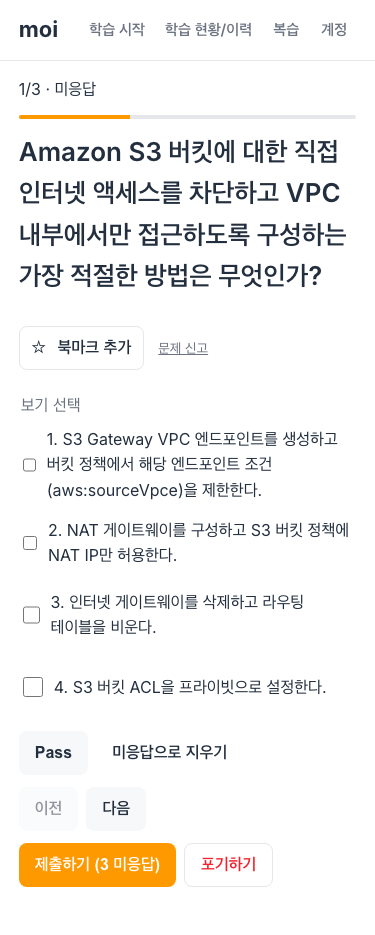
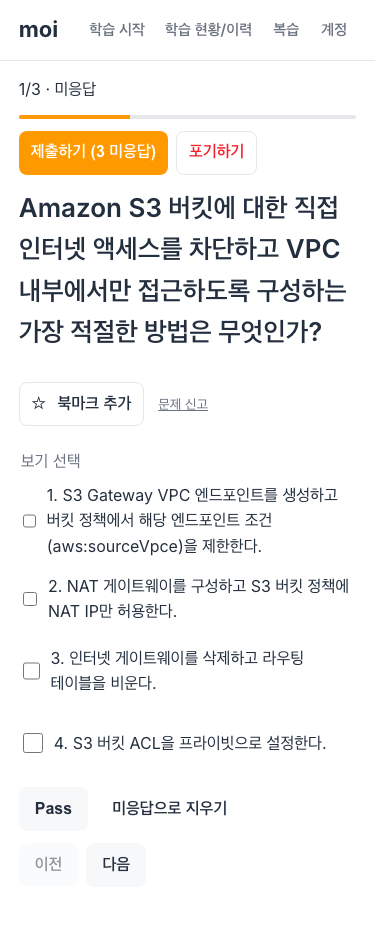
fix: Pass 즉시 다음 문제 이동·제출/포기 상단 배치 (#185, #186) (#191)
* fix: Pass 클릭 시 즉시 다음 문제로 이동 (#185)

- onPass에서 pass 응답 저장 후 다음 인덱스로 이동(마지막 문제는 머묾 — 자동 제출 없음)
- 다음 버튼 동작·저장 실패/오프라인/초안 동기화 동작은 기존 유지
- tests/ui/study-buttons.test.tsx에 이동·마지막 문제 유지 시나리오 추가

* fix: 풀이 화면 제출·포기 버튼을 상단으로 이동 (#186)

- 진행 표시(progress/progressbar) 직후에 제출(primary)·포기(outline destructive) 상단 액션 행 추가
- 하단 제출·포기 블록 제거, 제출 실패 알림은 상단 액션 바로 아래로 이동
- 상단 행은 size=sm(44px 터치)·flex-wrap·gap 8로 320px 한 줄 배치
- 보기 목록·Pass/Clear·저장 상태·이전/다음 순서 유지, 확인 대화상자 흐름 유지
- study-active 320~1280 캡처 갱신(가로 오버플로 0)

diff --git a/tests/ui/study-buttons.test.tsx b/tests/ui/study-buttons.test.tsx
@@ -103,8 +103,11 @@ function tokens(el: Element): string[] {
   return (el.getAttribute('class') ?? '').split(/\s+/).filter(Boolean);
 }
 
-// 같은 의미의 버튼은 높이·패딩·폰트가 같아야 한다 (DESIGN.md 5절).
-const SIZE_TOKENS = ['h-11', 'min-h-[44px]', 'px-4', 'text-sm'];
+// 같은 의미의 버튼은 높이·폰트가 같아야 한다 (DESIGN.md 5절).
+const SIZE_TOKENS = ['h-11', 'min-h-[44px]', 'text-sm'];
+// 풀이·탐색 버튼은 기본 패딩, 상단 제출·포기는 320px 한 줄 배치를 위한 컴팩트 패딩 (#186).
+const DEFAULT_PADDING = 'px-4';
+const TOP_ACTION_PADDING = 'px-3';
 
 beforeEach(() => {
   window.history.replaceState(null, '', '/');
@@ -144,10 +147,13 @@ describe('학습 화면 버튼 위계', () => {
     expect(tokens(abandon)).toContain('text-destructive');
     expect(tokens(abandon)).toContain('border');
 
-    // 같은 의미의 버튼은 동일 크기(터치 타깃 44px)·동일 패딩·폰트.
+    // 같은 의미의 버튼은 동일 크기(터치 타깃 44px)·동일 폰트.
     for (const el of [submit, pass, clear, prev, next, abandon]) {
       for (const t of SIZE_TOKENS) expect(tokens(el)).toContain(t);
     }
+    // 풀이·탐색 버튼은 기본 패딩, 상단 제출·포기는 컴팩트 패딩(320px 한 줄 배치, #186).
+    for (const el of [pass, clear, prev, next]) expect(tokens(el)).toContain(DEFAULT_PADDING);
+    for (const el of [submit, abandon]) expect(tokens(el)).toContain(TOP_ACTION_PADDING);
   });
 
   it('풀이 화면: 이전/다음 disabled 상태가 유지된다', async () => {
@@ -162,6 +168,66 @@ describe('학습 화면 버튼 위계', () => {
     fireEvent.click(screen.getByRole('button', { name: '다음' }));
     expect(screen.getByRole('button', { name: '다음' })).toBeDisabled();
     expect(screen.getByRole('button', { name: '이전' })).not.toBeDisabled();
+  });
+
+  it('Pass 클릭 시 즉시 다음 문제로 이동한다(#185)', async () => {
+    renderStudy(fakeStudyClient());
+    fireEvent.click(await screen.findByRole('button', { name: '학습 시작' }));
+    await screen.findByText(/1\/3/);
+
+    fireEvent.click(screen.getByRole('button', { name: 'Pass' }));
+
+    expect(await screen.findByText(/2\/3/)).toBeInTheDocument();
+    expect(screen.getByText('문제 1 본문')).toBeInTheDocument();
+  });
+
+  it('마지막 문제에서 Pass → 화면을 유지하고 응답만 Pass로 남는다(#185)', async () => {
+    renderStudy(fakeStudyClient());
+    fireEvent.click(await screen.findByRole('button', { name: '학습 시작' }));
+    await screen.findByText(/1\/3/);
+    fireEvent.click(screen.getByRole('button', { name: '다음' }));
+    fireEvent.click(screen.getByRole('button', { name: '다음' }));
+    await screen.findByText(/3\/3/);
+
+    fireEvent.click(screen.getByRole('button', { name: 'Pass' }));
+
+    await waitFor(() => expect(screen.getByText(/3\/3 · Pass/)).toBeInTheDocument());
+    expect(screen.getByText('문제 2 본문')).toBeInTheDocument();
+  });
+
+  it('제출·포기 버튼이 문제 본문보다 상단(진행 표시 직후)에 온다(#186)', async () => {
+    renderStudy(fakeStudyClient());
+    fireEvent.click(await screen.findByRole('button', { name: '학습 시작' }));
+    await screen.findByText(/1\/3/);
+
+    const progress = screen.getByText(/1\/3/);
+    const submit = screen.getByRole('button', { name: /제출하기/ });
+    const abandon = screen.getByRole('button', { name: '포기하기' });
+    const stem = screen.getByText('문제 0 본문');
+    const before = (a: Element, b: Element) =>
+      (a.compareDocumentPosition(b) & Node.DOCUMENT_POSITION_FOLLOWING) !== 0;
+
+    expect(before(progress, submit)).toBe(true); // 진행 표시 → 제출
+    expect(before(submit, abandon)).toBe(true); // 제출 → 포기
+    expect(before(abandon, stem)).toBe(true); // 포기 → 문제 본문
+    expect(screen.getByRole('button', { name: /제출하기 \(3 미응답\)/ })).toBeInTheDocument();
+  });
+
+  it('상단 제출·포기 클릭 시 확인 대화상자 흐름이 유지된다(#186)', async () => {
+    renderStudy(fakeStudyClient());
+    fireEvent.click(await screen.findByRole('button', { name: '학습 시작' }));
+    await screen.findByText(/1\/3/);
+
+    fireEvent.click(screen.getByRole('button', { name: /제출하기/ }));
+    expect(await screen.findByRole('alertdialog', { name: '제출 확인' })).toBeInTheDocument();
+    expect(screen.getByText(/풀지 않은 문제가 있습니다/)).toBeInTheDocument();
+
+    fireEvent.click(screen.getByRole('button', { name: '취소' }));
+    expect(screen.queryByRole('alertdialog', { name: '제출 확인' })).not.toBeInTheDocument();
+
+    fireEvent.click(screen.getByRole('button', { name: '포기하기' }));
+    expect(await screen.findByRole('alertdialog', { name: '포기 확인' })).toBeInTheDocument();
+    expect(screen.getByText(/정말 포기할까요/)).toBeInTheDocument();
   });
 
   it('결과 화면: 새 세트 시작=primary·학습 이력·오답 복습=secondary(같은 크기)', async () => {

diff --git a/src/ui/study/QuestionView.tsx b/src/ui/study/QuestionView.tsx
@@ -67,6 +67,29 @@ export function QuestionView(p: Props) {
       <div className="moi-study-progressbar" aria-hidden="true">
         <span style={{ width: `${Math.round(((p.index + 1) / total) * 100)}%` }} />
       </div>
+      {/* 상단 액션 — 제출·포기 (#186): 스크롤 없이 바로 닿도록 진행 표시 직후에 둔다. */}
+      <div className="moi-study-question-top">
+        <Button
+          type="button"
+          variant="primary"
+          size="sm"
+          disabled={p.submitting}
+          pending={p.submitting}
+          onClick={p.onSubmitRequest}
+        >
+          {copy.study.submit}
+          {p.unansweredCount > 0 ? ` (${p.unansweredCount} 미응답)` : ''}
+        </Button>
+        <Button type="button" variant="outline" size="sm" className="text-destructive" onClick={p.onAbandonRequest}>
+          {copy.study.abandon}
+        </Button>
+      </div>
+      {/* 제출 실패 알림 — 상단 액션 바로 아래에서 보인다 (#186). */}
+      {p.submitError && (
+        <div className="moi-alert moi-alert-error" role="alert">
+          <p className="moi-alert-text">{p.submitError}</p>
+        </div>
+      )}
       <h2 className="moi-study-title">{item.stem}</h2>
       <p className="moi-note">
         <BookmarkButton client={p.client} examId={p.examId ?? STUDY_EXAM_ID} questionId={item.questionId} />
@@ -107,11 +130,6 @@ export function QuestionView(p: Props) {
           )}
         </p>
       )}
-      {p.submitError && (
-        <div className="moi-alert moi-alert-error" role="alert">
-          <p className="moi-alert-text">{p.submitError}</p>
-        </div>
-      )}
       {/* [이전][다음]은 같은 크기·같은 variant의 secondary. */}
       <div className="moi-study-nav">
         <Button type="button" variant="secondary" disabled={p.index === 0} onClick={() => p.onIndex(p.index - 1)}>
@@ -124,22 +142,6 @@ export function QuestionView(p: Props) {
           onClick={() => p.onIndex(p.index + 1)}
         >
           {copy.study.next}
-        </Button>
-      </div>
-      {/* 제출=primary(최종 제출), 포기=destructive 계열(강도 낮게) — 확인 대화상자에서 확정. */}
-      <div className="moi-study-actions">
-        <Button
-          type="button"
-          variant="primary"
-          disabled={p.submitting}
-          pending={p.submitting}
-          onClick={p.onSubmitRequest}
-        >
-          {copy.study.submit}
-          {p.unansweredCount > 0 ? ` (${p.unansweredCount} 미응답)` : ''}
-        </Button>
-        <Button type="button" variant="outline" className="text-destructive" onClick={p.onAbandonRequest}>
-          {copy.study.abandon}
         </Button>
       </div>
     </section>

diff --git a/src/ui/study/StudyScreen.tsx b/src/ui/study/StudyScreen.tsx
@@ -170,7 +170,11 @@ export function StudyScreen({
           submitError={f.submitError}
           onIndex={s.setIndex}
           onAnswer={(qid, res, prev) => f.handleAnswer(qid, res, prev)}
-          onPass={(qid, prev) => f.handleAnswer(qid, { kind: 'pass' }, prev)}
+          // Pass → 즉시 다음 문제로 이동(마지막 문제는 머문다 — 자동 제출 금지) (#185).
+          onPass={(qid, prev) => {
+            f.handleAnswer(qid, { kind: 'pass' }, prev);
+            if (s.index < set.items.length - 1) s.setIndex(s.index + 1);
+          }}
           onClear={(qid, prev) => f.handleAnswer(qid, { kind: 'unanswered' }, prev)}
           onRetry={() => f.handleRetry()}
           onSubmitRequest={f.handleSubmitRequest}

diff --git a/src/ui/study/study.css b/src/ui/study/study.css
@@ -181,3 +181,13 @@
   height: 100%;
   background: var(--moi-color-orange);
 }
+/* 상단 제출·포기 액션 행 — 배경·테두리 없이 여백만, 좁은 화면은 줄바꿈 허용 (#186). */
+.moi-study-question-top {
+  display: flex;
+  flex-direction: row;
+  flex-wrap: wrap;
+  align-items: center;
+  justify-content: flex-start;
+  gap: var(--moi-space-2);
+  width: 100%;
+}
